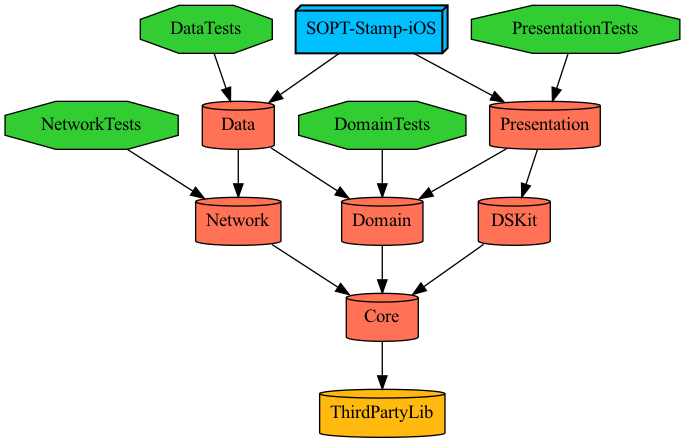
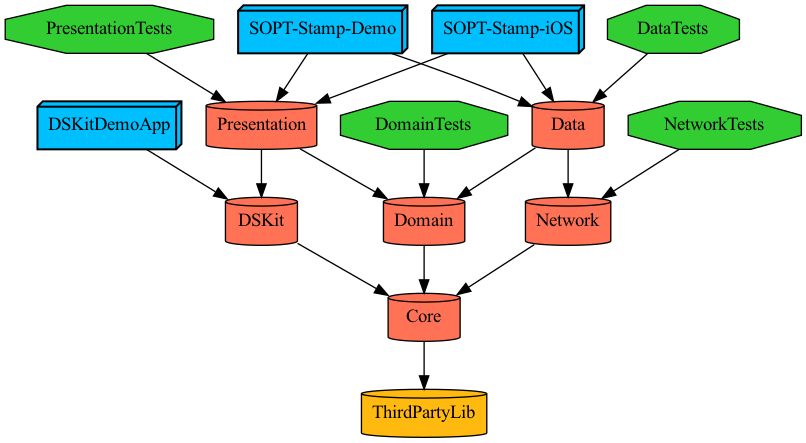
[Feat] #15 - SOPTDemoApp 생성

Changed region(s): [[0.0, 0.0, 1.0, 0.9977], [0.2146, 0.1467, 0.2453, 0.1761]]

diff --git a/SOPT-Stamp-iOS/Projects/Demo/SOPT-Stamp-Demo/Sources/Application/SceneDelegate.swift b/SOPT-Stamp-iOS/Projects/Demo/SOPT-Stamp-Demo/Sources/Application/SceneDelegate.swift
@@ -1,0 +1,39 @@
+//
+//  SceneDelegate.swift
+//  ProjectDescriptionHelpers
+//
+//  Created by 양수빈 on 2022/10/01.
+//
+
+import UIKit
+
+import Presentation
+
+class SceneDelegate: UIResponder, UIWindowSceneDelegate {
+
+    var window: UIWindow?
+
+    func scene(_ scene: UIScene,
+        willConnectTo session: UISceneSession,
+        options connectionOptions: UIScene.ConnectionOptions) {
+        guard let scene = (scene as? UIWindowScene) else { return }
+        
+        window = UIWindow(frame: scene.coordinateSpace.bounds)
+        window?.windowScene = scene
+        let vc = TestVC()
+        window?.rootViewController = UINavigationController(rootViewController: vc)
+        window?.makeKeyAndVisible()
+    }
+
+    func sceneDidDisconnect(_ scene: UIScene) {}
+
+    func sceneDidBecomeActive(_ scene: UIScene) {
+        UIApplication.shared.applicationIconBadgeNumber = 0
+    }
+
+    func sceneWillResignActive(_ scene: UIScene) {}
+
+    func sceneWillEnterForeground(_ scene: UIScene) {}
+
+    func sceneDidEnterBackground(_ scene: UIScene) {}
+}

diff --git a/SOPT-Stamp-iOS/Projects/Demo/SOPT-Stamp-Demo/Sources/Application/AppDelegate.swift b/SOPT-Stamp-iOS/Projects/Demo/SOPT-Stamp-Demo/Sources/Application/AppDelegate.swift
@@ -1,0 +1,32 @@
+//
+//  AppDelegate.swift
+//  ProjectDescriptionHelpers
+//
+//  Created by 양수빈 on 2022/10/01.
+//
+
+import UIKit
+
+import Core
+
+@main
+class AppDelegate: UIResponder, UIApplicationDelegate {
+    
+    func application( _ application: UIApplication, didFinishLaunchingWithOptions launchOptions: [UIApplication.LaunchOptionsKey: Any]?) -> Bool {
+        
+        return true
+    }
+    
+    // MARK: UISceneSession Lifecycle
+    
+    func application( _ application: UIApplication,
+        configurationForConnecting connectingSceneSession: UISceneSession,
+        options: UIScene.ConnectionOptions
+    ) -> UISceneConfiguration {
+        return UISceneConfiguration(name: "Default Configuration", sessionRole: connectingSceneSession.role)
+    }
+    
+    func application( _ application: UIApplication,
+        didDiscardSceneSessions sceneSessions: Set<UISceneSession>
+    ) {}
+}

diff --git a/SOPT-Stamp-iOS/Projects/Demo/SOPT-Stamp-Demo/Project.swift b/SOPT-Stamp-iOS/Projects/Demo/SOPT-Stamp-Demo/Project.swift
@@ -1,0 +1,22 @@
+//
+//  Project.swift
+//  ProjectDescriptionHelpers
+//
+//  Created by sejin on 2022/10/02.
+//
+
+import ProjectDescription
+import ProjectDescriptionHelpers
+import UtilityPlugin
+
+let project = Project.makeModule(
+    name: "SOPT-Stamp-Demo",
+    platform: .iOS,
+    product: .app,
+    dependencies: [
+        .Project.Data,
+        .Project.Presentation
+    ],
+    resources: ["Resources/**"],
+    infoPlist: .extendingDefault(with: Project.baseinfoPlist)
+)

diff --git a/SOPT-Stamp-iOS/Projects/Demo/SOPT-Stamp-Demo/Sources/ModuleFactory/ModuleFactory.swift b/SOPT-Stamp-iOS/Projects/Demo/SOPT-Stamp-Demo/Sources/ModuleFactory/ModuleFactory.swift
@@ -1,0 +1,23 @@
+//
+//  ModuleFactory.swift
+//  SOPT-Stamp-iOS
+//
+//  Created by 양수빈 on 2022/10/06.
+//  Copyright © 2022 SOPT-Stamp-iOS. All rights reserved.
+//
+
+import Foundation
+
+import Presentation
+import Network
+import Domain
+import Data
+
+public class ModuleFactory {
+    static let shared = ModuleFactory()
+    private init() { }
+}
+
+extension ModuleFactory: ModuleFactoryInterface {
+    
+}

diff --git a/SOPT-Stamp-iOS/Workspace.swift b/SOPT-Stamp-iOS/Workspace.swift
@@ -10,6 +10,7 @@ import ProjectDescription
 let workspace = Workspace(
     name: "SOPT-Stamp-iOS",
     projects: [
-    "Projects/SOPT-Stamp-iOS"
+    "Projects/SOPT-Stamp-iOS",
+    "Projects/Demo/SOPT-Stamp-Demo"
     ]
 )
